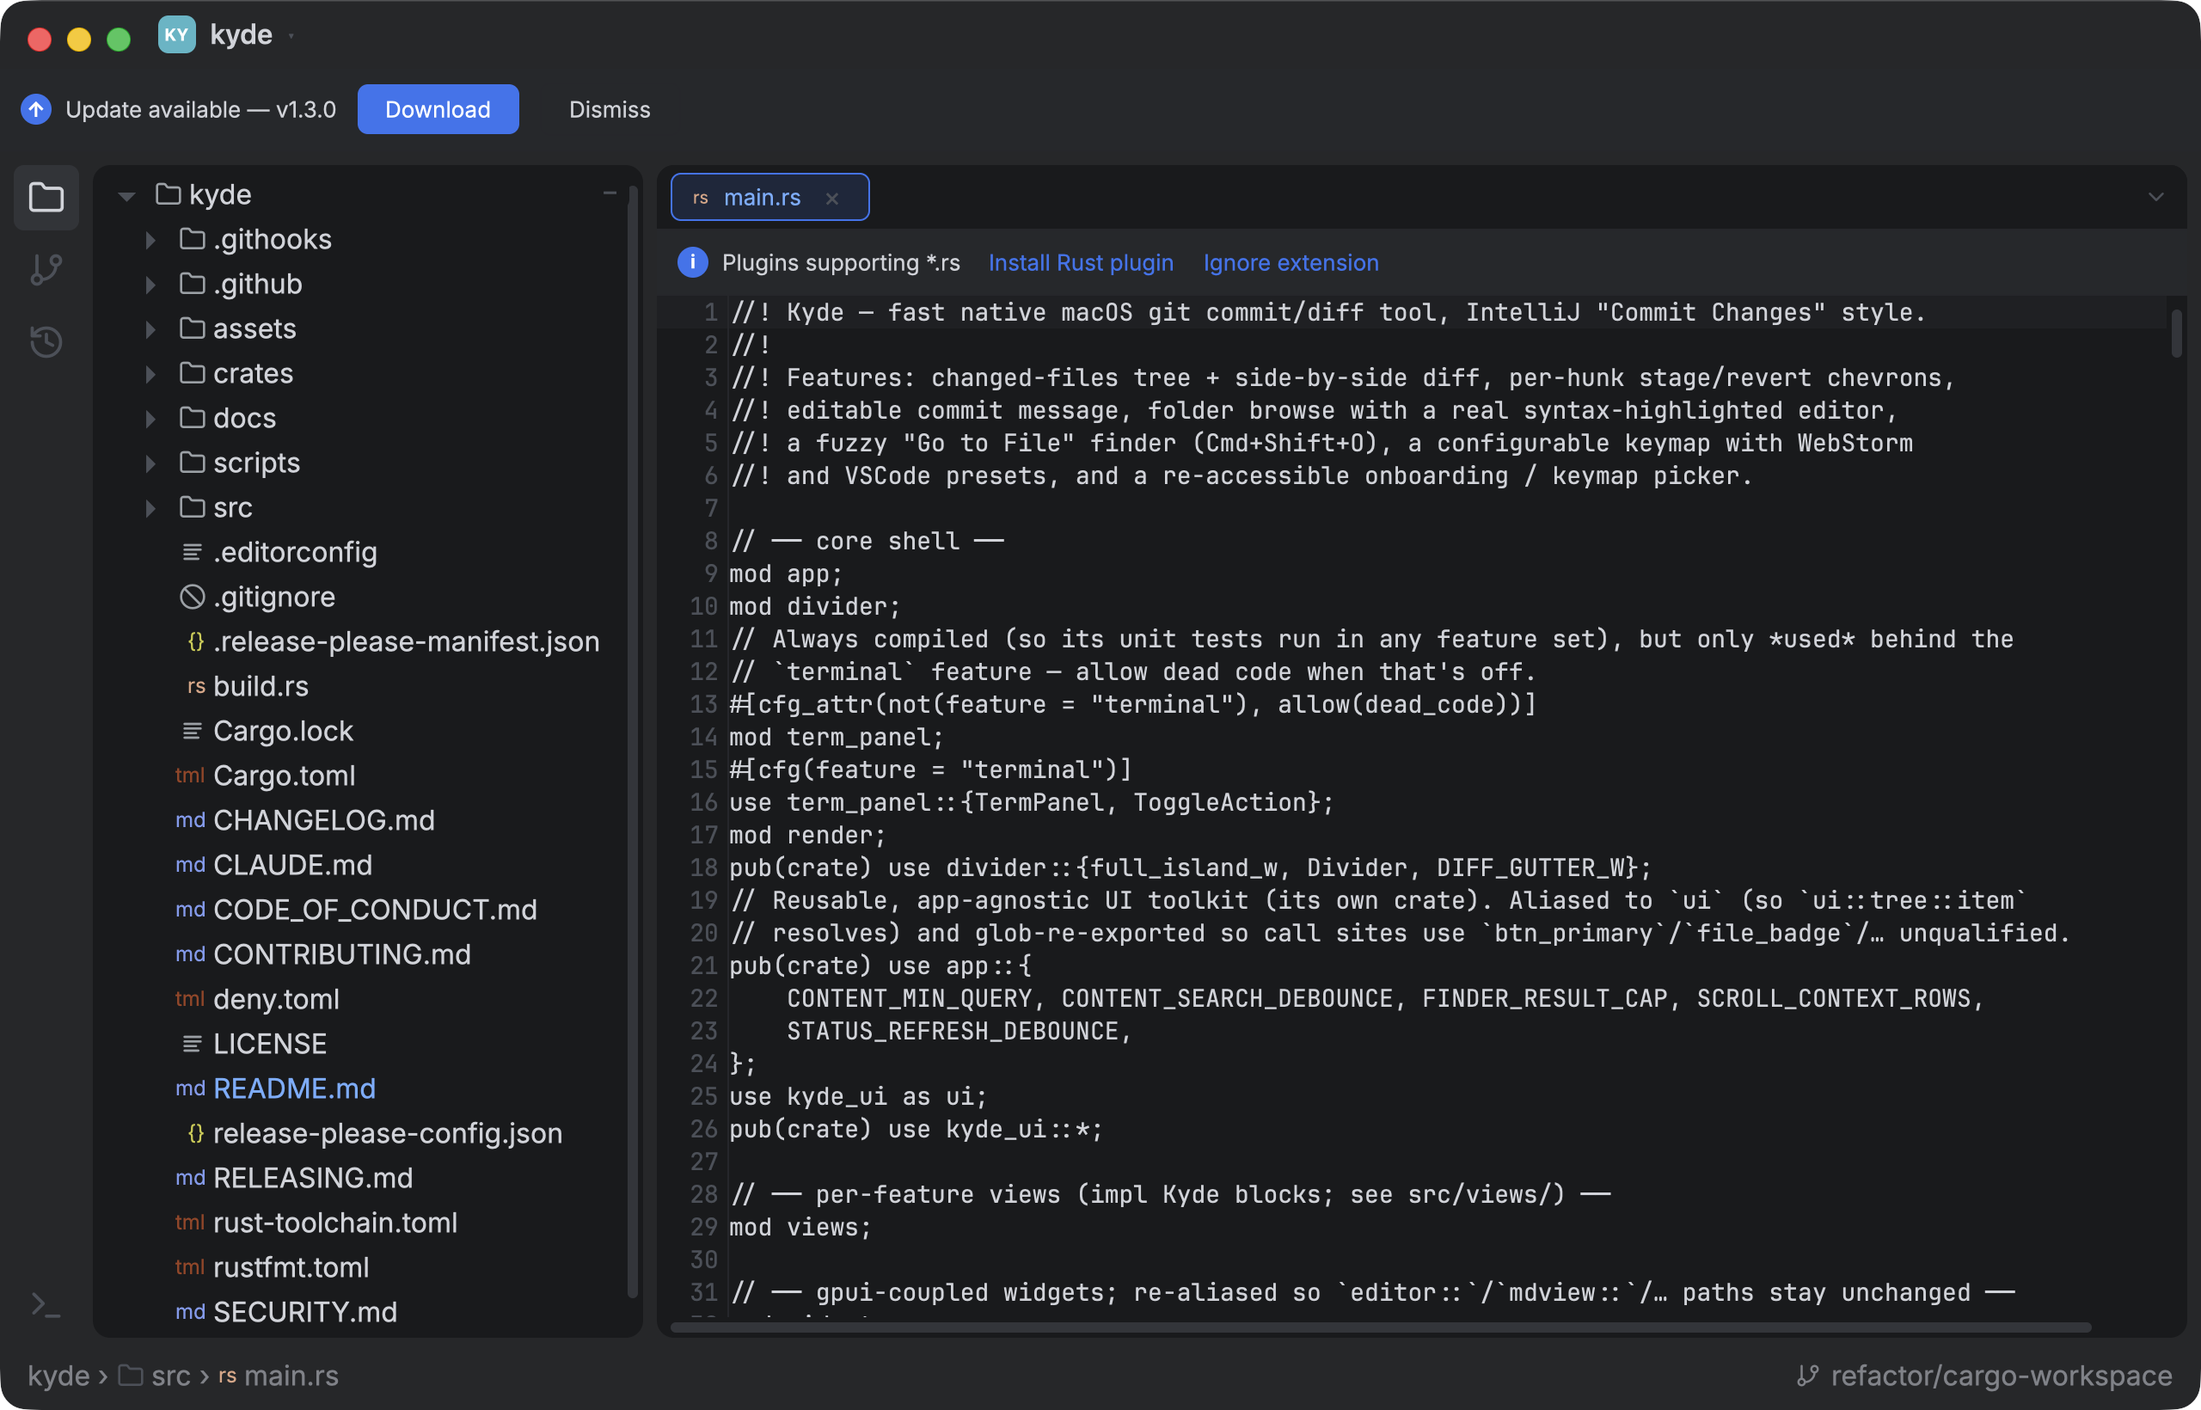
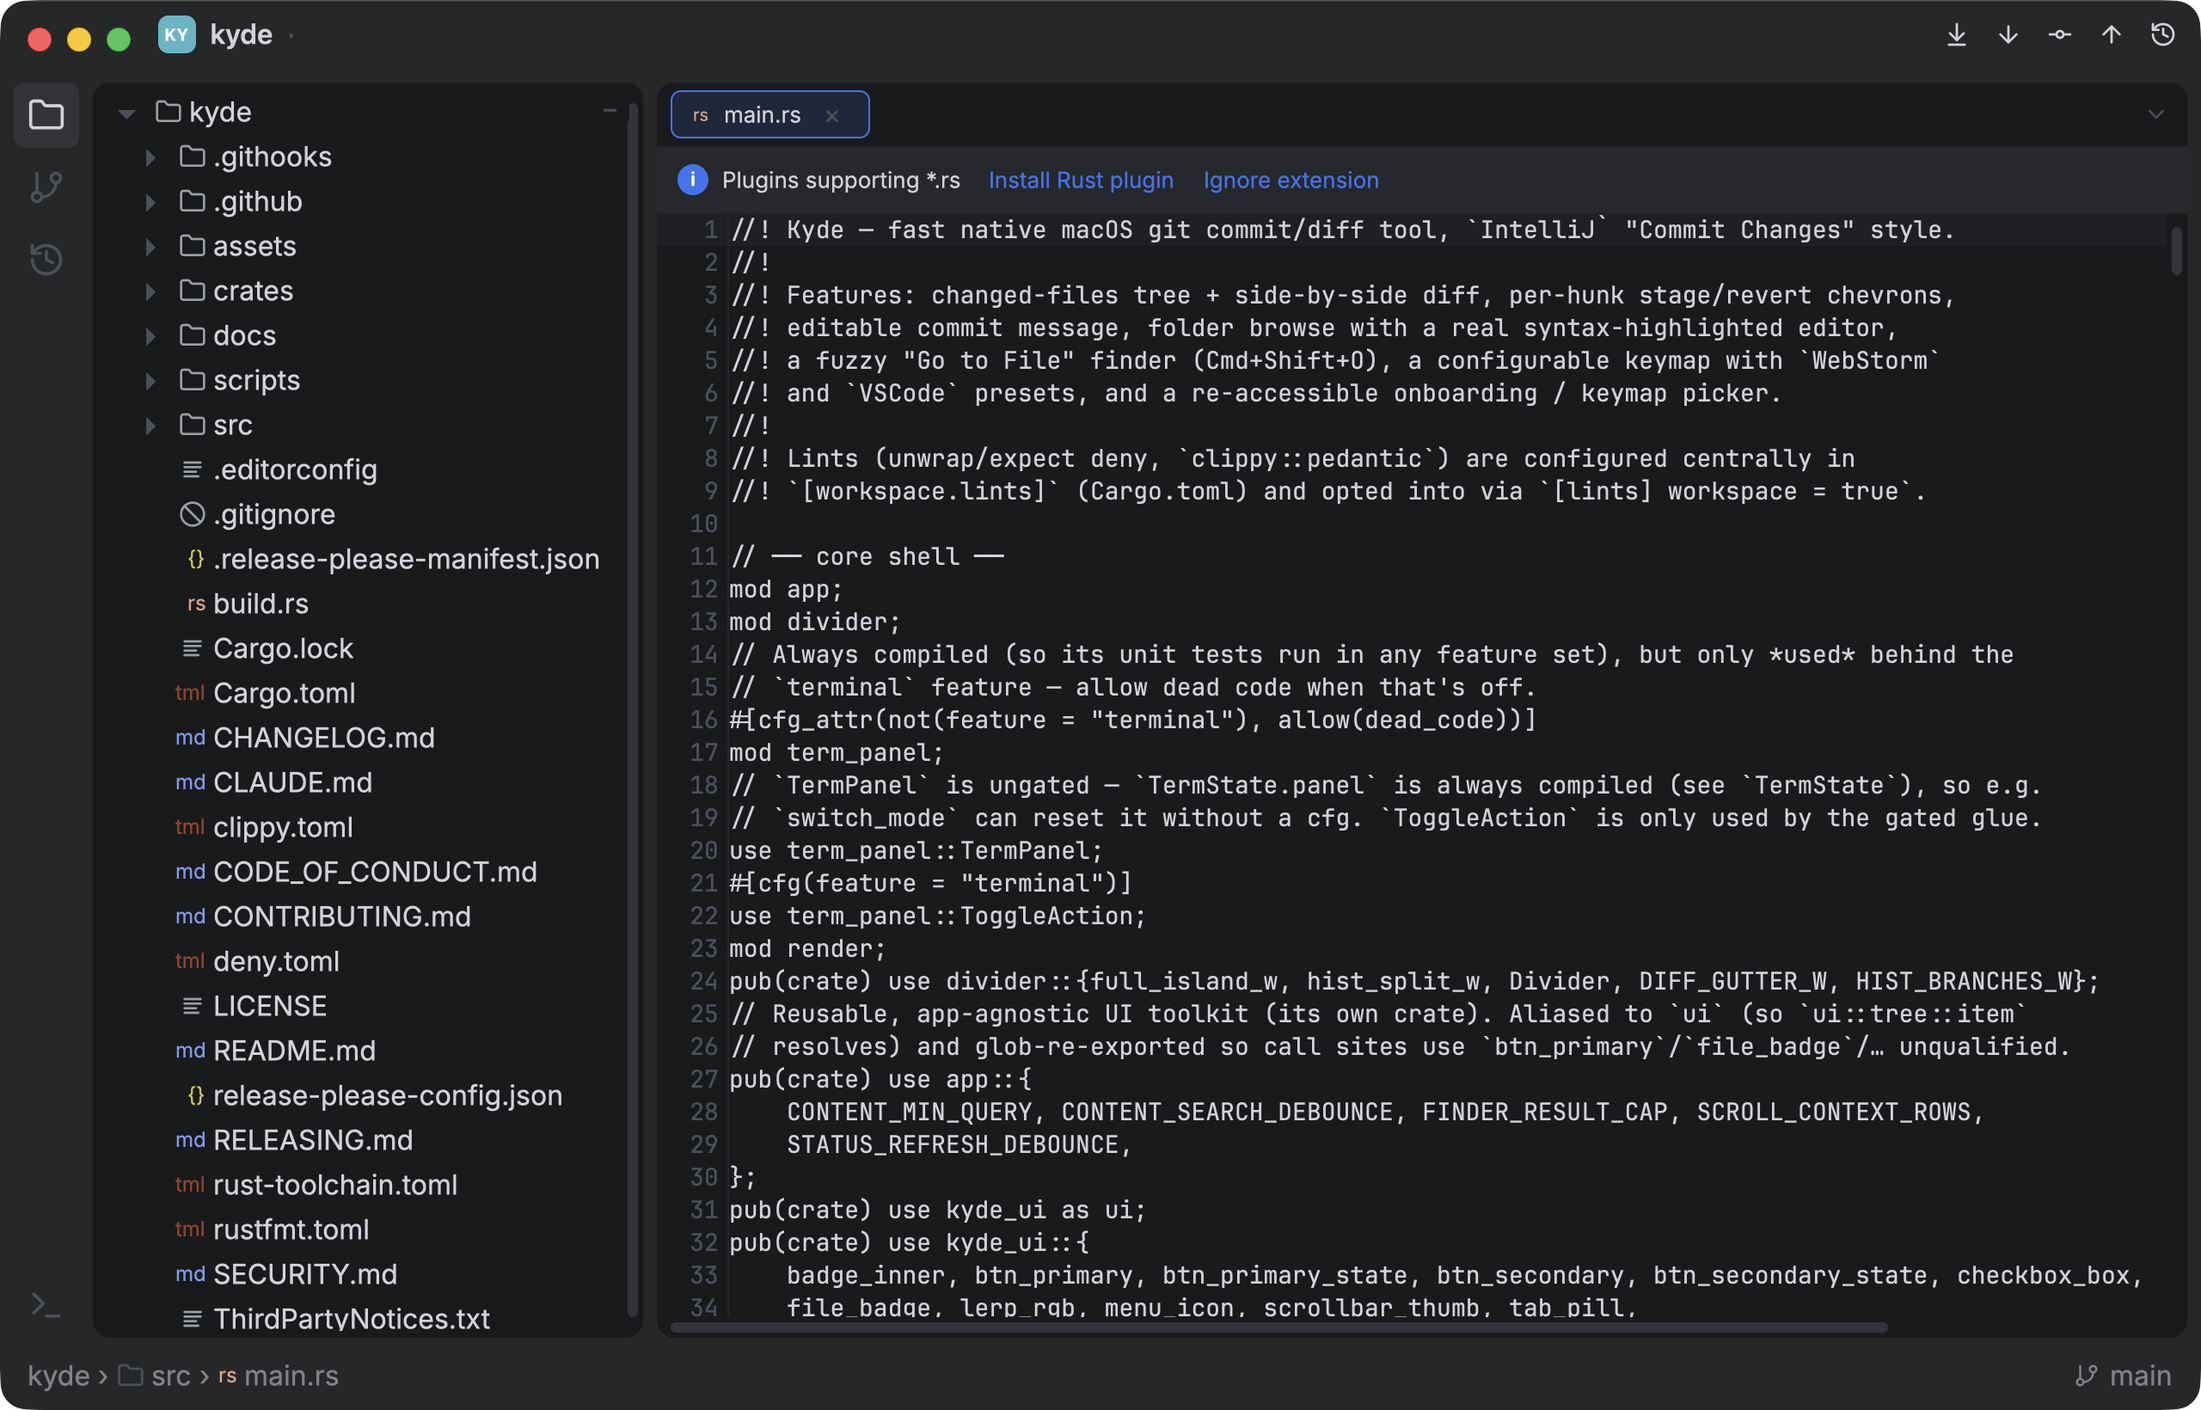
docs: README, site and screenshots for the git log, toolbar, find-in-diff and keyboard nav (#103)
* docs: README + site for the git log, toolbar, find-in-diff and keyboard nav

- README: git toolbar, push tree, IntelliJ-style History (branches sidebar +
  graph), find/replace in every diff, keyboard navigation, Java in the
  plugins-window alt text, and the find shortcut row.
- docs/index.html: the same in the feature cards.
- screenshots.sh: a history fixture (a clone with a feature branch merged
  --no-ff) so the History shot's graph draws a real branch; the `history`
  shot state opens it and selects the branch's first commit.

* fix(git): don't list origin/HEAD as a remote branch; widen History sidebar

- `remote_branches` used `%(refname:short)`, which abbreviates the
  `origin/HEAD` symref to a bare `origin` — it slipped past the `/HEAD`
  filter and showed up as a fake "origin" branch in the branch popup,
  the History branch picker and the new branches sidebar. Uses
  `%(refname:lstrip=2)` now.
- History branches sidebar 200 → 232px so "HEAD (Current Branch)" fits.
- screenshots.sh stages captures outside the repo and copies them in at
  exit: writing straight into the photographed repo dirtied its tree
  mid-run, so later shots showed those files as changes (the title-bar
  Commit count).

* fix(screenshots): rollback shot uses the git-diff fixture so its window always opens

On a clean repo there was nothing to roll back, the Rollback window never
opened, and the script sat on a bare Commit view through every retry.
[…]

Changed region(s): [[0.0, 0.0622, 1.0, 0.9951], [0.9688, 0.2177, 1.0, 0.2488], [0.0, 0.1244, 0.0312, 0.1555]]

diff --git a/docs/index.html b/docs/index.html
@@ -145,12 +145,12 @@
       <div class="card">
         <span class="ic">🌳</span>
         <h3>Browse &amp; edit</h3>
-        <p>Open a folder, edit with tree-sitter syntax highlighting, opt-in language packs, code folding and find/replace.</p>
+        <p>Open a folder, edit with tree-sitter syntax highlighting, opt-in language packs, code folding and find/replace — in diffs too.</p>
       </div>
       <div class="card">
         <span class="ic">⎇</span>
         <h3>Branches, merge &amp; rollback</h3>
-        <p>Searchable branch and worktree switchers, commit, push/pull/fetch, a 3-pane conflict resolver, and a native rollback window with a checkbox tree of changes.</p>
+        <p>Searchable branch and worktree switchers, one-click commit / push / pull / fetch from the title-bar toolbar, a git log with a commit graph and branches sidebar, a 3-pane conflict resolver, and a native rollback window with a checkbox tree of changes.</p>
       </div>
       <div class="card">
         <span class="ic">🕘</span>
@@ -170,7 +170,7 @@
       <div class="card">
         <span class="ic">⌨</span>
         <h3>Your keymap</h3>
-        <p>WebStorm or VSCode presets with per-action overrides. Fuzzy Go to File and Find Action.</p>
+        <p>WebStorm or VSCode presets with per-action overrides. Fuzzy Go to File and Find Action, and keyboard navigation through every menu, tree and list.</p>
       </div>
     </div>
   </section>

diff --git a/crates/kyde-git/src/lib.rs b/crates/kyde-git/src/lib.rs
@@ -763,7 +763,9 @@ impl Repo {
             &[
                 "for-each-ref",
                 "--sort=-committerdate",
-                "--format=%(refname:short)",
+                // `lstrip=2`, not `:short`: `:short` abbreviates `origin/HEAD` to a bare
+                // `origin`, which then slips past the `/HEAD` filter as a fake branch.
+                "--format=%(refname:lstrip=2)",
                 "refs/remotes/",
             ],
         )?;
@@ -1605,6 +1607,38 @@ mod tests {
     /// A freshly-created local branch (no upstream) must measure a push from where it forked
     /// off the remote mainline — NOT the empty tree (which used to report the whole repo as
     /// "to push"). Builds a real repo + bare remote and checks `ahead_count`/`push_files`.
+    /// A clone's `origin/HEAD` symref is not a branch — it must not be listed (as `origin`).
+    #[test]
+    fn remote_branches_skip_the_origin_head_symref() {
+        use std::fs;
+        let g = |dir: &Path, args: &[&str]| {
+            git(dir, args).unwrap_or_else(|e| panic!("git {args:?} failed: {e}"))
+        };
+        let base = std::env::temp_dir().join(format!("kyde-remotes-{}", std::process::id()));
+        let _ = fs::remove_dir_all(&base);
+        let (remote, work) = (base.join("remote.git"), base.join("work"));
+        fs::create_dir_all(&remote).unwrap();
+        fs::create_dir_all(&work).unwrap();
+        g(&remote, &["init", "--bare", "-b", "main"]);
+        g(&work, &["init", "-b", "main"]);
+        g(&work, &["config", "user.email", "t@example.com"]);
+        g(&work, &["config", "user.name", "Test"]);
+        g(&work, &["config", "commit.gpgsign", "false"]);
+        fs::write(work.join("a.txt"), "1\n").unwrap();
+        g(&work, &["add", "-A"]);
+        g(&work, &["commit", "-m", "init"]);
+        g(
+            &work,
+            &["remote", "add", "origin", remote.to_str().unwrap()],
+        );
+        g(&work, &["push", "-u", "origin", "main"]);
+        g(&work, &["remote", "set-head", "origin", "main"]);
+
+        let repo = Repo::discover(&work).unwrap();
+        assert_eq!(repo.remote_branches().unwrap(), ["origin/main"]);
+        let _ = fs::remove_dir_all(&base);
+    }
+
     #[test]
     fn new_branch_pushes_only_its_own_commits_not_whole_repo() {
         use std::fs;

diff --git a/src/main.rs b/src/main.rs
@@ -2806,8 +2806,14 @@ fn apply_shot(view: &mut Kyde, name: &str, window: &mut Window, cx: &mut Context
             cx.notify();
         }
         // Commit view (diff behind) + the Rollback native modal window open over it.
+        // Rollback window over the Commit view. screenshots.sh passes the git-diff fixture
+        // (KYDE_SHOT_REPO, guaranteed working-tree changes): on a clean repo there's nothing
+        // to roll back, the window never opens, and the capture waits on a bare Commit view.
         "rollback" => {
             set_packs(view, &["rust"]);
+            if let Ok(repo) = std::env::var("KYDE_SHOT_REPO") {
+                view.open_project(PathBuf::from(repo), cx);
+            }
             view.enter_commit(cx);
             view.open_rollback_path(PathBuf::new(), cx);
         }
@@ -3003,9 +3009,25 @@ fn apply_shot(view: &mut Kyde, name: &str, window: &mut Window, cx: &mut Context
         }
         // History view: the commit log for the current branch, first commit selected so the
         // changed-files list + read-only diff are populated.
+        // The History log. screenshots.sh passes a clone with a short feature branch merged
+        // back `--no-ff` (KYDE_SHOT_REPO), so the graph has a real branch + merge to draw —
+        // main's own history is squash-merged and draws as one line. Selects the branch's
+        // first commit, diffed against its parent.
         "history" => {
             set_packs(view, &["rust"]);
+            if let Ok(repo) = std::env::var("KYDE_SHOT_REPO") {
+                view.open_project(PathBuf::from(repo), cx);
+            }
+            view.history.compare = CompareMode::Before;
             view.enter_history(cx);
+            if let Some(i) = view
+                .history
+                .commits
+                .iter()
+                .position(|c| c.subject.starts_with("feat: ease the shimmer"))
+            {
+                view.select_history_commit(i, cx);
+            }
         }
         // Browse view with the bottom terminal panel open, seeded with a couple of commands
         // so the shot shows a live shell (prompt + output), not a bare box.

diff --git a/src/divider.rs b/src/divider.rs
@@ -21,7 +21,7 @@ pub(crate) fn full_island_w(vw: f32) -> f32 {
 }
 
 /// Width of the History branches sidebar (fixed) + its 1px edge.
-pub(crate) const HIST_BRANCHES_W: f32 = 200.0;
+pub(crate) const HIST_BRANCHES_W: f32 = 232.0;
 
 /// Width the History commit-list | files split shares — the island minus the branches
 /// sidebar. Both the layout and the `HistCommit` drag use it, so the drag stays 1:1.

diff --git a/README.md b/README.md
@@ -59,7 +59,7 @@ by lightness instead of hue) — switch in Settings.
 
 * **Folder tree** — expandable, resizable, file-type icons, git-status colors.
 * **Text editor** — selection, undo/redo, copy/cut/paste, Tab/Shift-Tab indent, ⌘-backspace, line numbers, current-line highlight, IME, auto-save.
-* **Find & replace** — `⌘F` find (`⌘G`/`⇧⌘G` to cycle), `⌘R` replace.
+* **Find & replace** — `⌘F` find (`⌘G`/`⇧⌘G` to cycle), `⌘R` replace — in the editor and in every diff (Commit, History, Push, View Diff, Compare, Merge, Local History), with every match highlighted and the current one outlined.
 * **Editor tabs** that scroll and follow the active file.
 * **Image preview** for PNG/JPG/GIF/WebP/BMP/ICO/AVIF/TIFF.
 * **Syntax highlighting** via tree-sitter, installed on demand from a built-in **Language Plugins** manager. Packs: **TypeScript/TSX, JavaScript, Rust, JSON, Markdown, Shell, CSS, SCSS, YAML, TOML, Python, HTML, Go, Java, R, LaTeX** — plus always-on `.env` and `.gitignore` highlighters, and a **Font preview** plugin. Each pack is also a Cargo feature, so a build can ship only the grammars it wants ([details](#build)).
@@ -70,7 +70,7 @@ by lightness instead of hue) — switch in Settings.
 * **Markdown preview** — a live rendered pane alongside the editor.
 
 <p align="center">
-  <img src="assets/screenshots/plugins-window.png" alt="Language Plugins manager — a native window listing every language pack (CSS, Go, HTML, JavaScript, JSON, LaTeX, Markdown, Python, R, …) with per-pack Install / Uninstall" width="900">
+  <img src="assets/screenshots/plugins-window.png" alt="Language Plugins manager — a native window listing every language pack (CSS, Go, HTML, Java, JavaScript, JSON, LaTeX, Markdown, Python, R, …) with per-pack Install / Uninstall" width="900">
 </p>
 
 <p align="center">
@@ -99,12 +99,13 @@ by lightness instead of hue) — switch in Settings.
 * **Commit view**: changed-files list + an editable side-by-side diff — base on the left, live working copy on the right, both highlighted.
 * **Stage / revert** per hunk from the center gutter, or whole files; commit via the message box.
 * **Rollback** in a native window — checkbox tree, optional deletion of added files, right-click for diff.
-* **Push / Pull / Fetch** — status-bar chips that appear when you're ahead or behind upstream, plus the context menu.
+* **Git toolbar** — Fetch, Pull, Commit, Push and History one click away in the title bar, with the behind / changed-file / ahead counts on their buttons.
+* **Push / Pull / Fetch** — from the toolbar, the status-bar chips that appear when you're ahead or behind upstream, or the context menu. Push lists the outgoing files as a folder tree before anything leaves.
 * **Branch switcher** — searchable tree, `/` as folders, Recent / Local roots, ahead/behind counts per branch.
 * **Worktree switcher** — a chip listing every linked worktree with its branch and changed-file count; switching restores that worktree's UI state, and the branch popup jumps to a worktree rather than failing a checkout that's already checked out elsewhere.
 * **Compare two files** — ⌘-click two files in the tree → right-click → **Compare Selected** (or right-click a tab → **Compare with Current Tab**) for a side-by-side compare in a native window, with a `«` `»` gutter that applies a hunk in either direction.
 * **Merge** — right-click a branch to merge it into the current one. Conflicts open a native two-stage resolver: a conflicts list (what each side did, Accept Yours / Accept Theirs / Merge…), then a 3-pane merge view — yours | result | theirs — with per-change apply/ignore gutters, "apply non-conflicting changes", Compare Contents pairs, and whitespace-ignoring diffs.
-* **History** — commit log for any branch, with the selected commit's changed files and a read-only diff that compares vs the parent, latest, or your local working tree.
+* **History** — an IntelliJ-style log: a branches sidebar (HEAD, Local, Remote, `/` as folders) picks what's logged, the commit list draws the branch / merge graph, and the selected commit's changed files open in a read-only diff that compares vs the parent, latest, or your local working tree.
 * **Local History** — per-file snapshots independent of git (saves, external changes, and markers before every destructive op). A timeline + snapshot ↔ current diff per file or folder, a changed-since files panel, per-hunk restore, and revert for one file, a folder, or everything since a snapshot — every revert is itself recorded. Configurable retention, clearable, or off entirely.
 * **File management** from the tree — New File / Directory / Scratch, Rename (files *and* folders, repointing open tabs across the moved subtree), Delete (with confirm), Cut / Copy / Paste (`⌘X`/`⌘C`/`⌘V`, including files copied in Finder and clipboard image data), drag & drop within the tree or in from Finder, and Reveal in Finder.
 * **Non-git folders work too** — file management and editing are plain filesystem ops; git actions hide themselves and offer an **Initialize Git Repository** button instead.
@@ -119,7 +120,7 @@ by lightness instead of hue) — switch in Settings.
 </p>
 
 <p align="center">
-  <img src="assets/screenshots/history.png" alt="History view — commit log on the left, the selected commit's changed files, and a read-only side-by-side diff comparable against the parent, latest, or local working tree" width="900">
+  <img src="assets/screenshots/history.png" alt="History view — branches sidebar, commit list with a branch and merge graph, the selected commit's changed files, and a read-only side-by-side diff comparable against the parent, latest, or local working tree" width="900">
 </p>
 
 <p align="center">
@@ -146,6 +147,10 @@ by lightness instead of hue) — switch in Settings.
   <img src="assets/screenshots/find-in-files.png" alt="Find in Files — full-text content search across the repo, results listed with file and line for the query “kyde”" width="900">
 </p>
 
+<p align="center">
+  <img src="assets/screenshots/find-diff.png" alt="Find &amp; replace over a diff — ⌘R on the Commit view's working pane, every match of “chan” highlighted and the current one outlined" width="900">
+</p>
+
 ### Look & feel
 
 * **Islands layout** — rounded panels, draggable dividers, activity rail, native title bar (double-click to zoom), status bar.
@@ -159,6 +164,7 @@ by lightness instead of hue) — switch in Settings.
 
 * **WebStorm** / **VSCode** presets with per-action overrides in `~/.config/kyde/keymap.json`.
 * **Onboarding keymap picker** on first launch, reopenable via Settings.
+* **Keyboard navigation** everywhere — context menus and their submenus, the file trees, lists and popups: `↑` / `↓` move, `←` / `→` fold folders or step in and out of submenus, `⏎` activates, space ticks a checkbox, `⇧F10` opens a row's context menu, `Esc` closes.
 * **Install shell command** — optionally symlinks `ky` into `~/.local/bin`. No shell-rc editing, no sudo.
 
 ## Install
@@ -187,7 +193,7 @@ Default shortcuts (WebStorm → VSCode):
 * Go to File: `⌘⇧O` → `⌘P`
 * Find Action: `⌘⇧A`
 * Find in Files: `⌘⇧F`
-* Find / Replace in file: `⌘F` / `⌘R` (`⌘G` / `⇧⌘G` to cycle)
+* Find / Replace (file or diff): `⌘F` / `⌘R` (`⌘G` / `⇧⌘G` to cycle)
 * Save: `⌘S`
 * Commit: `⌘K` → `⌘⏎`
 * Commit view: `⌘9` → `⌃⇧G`
